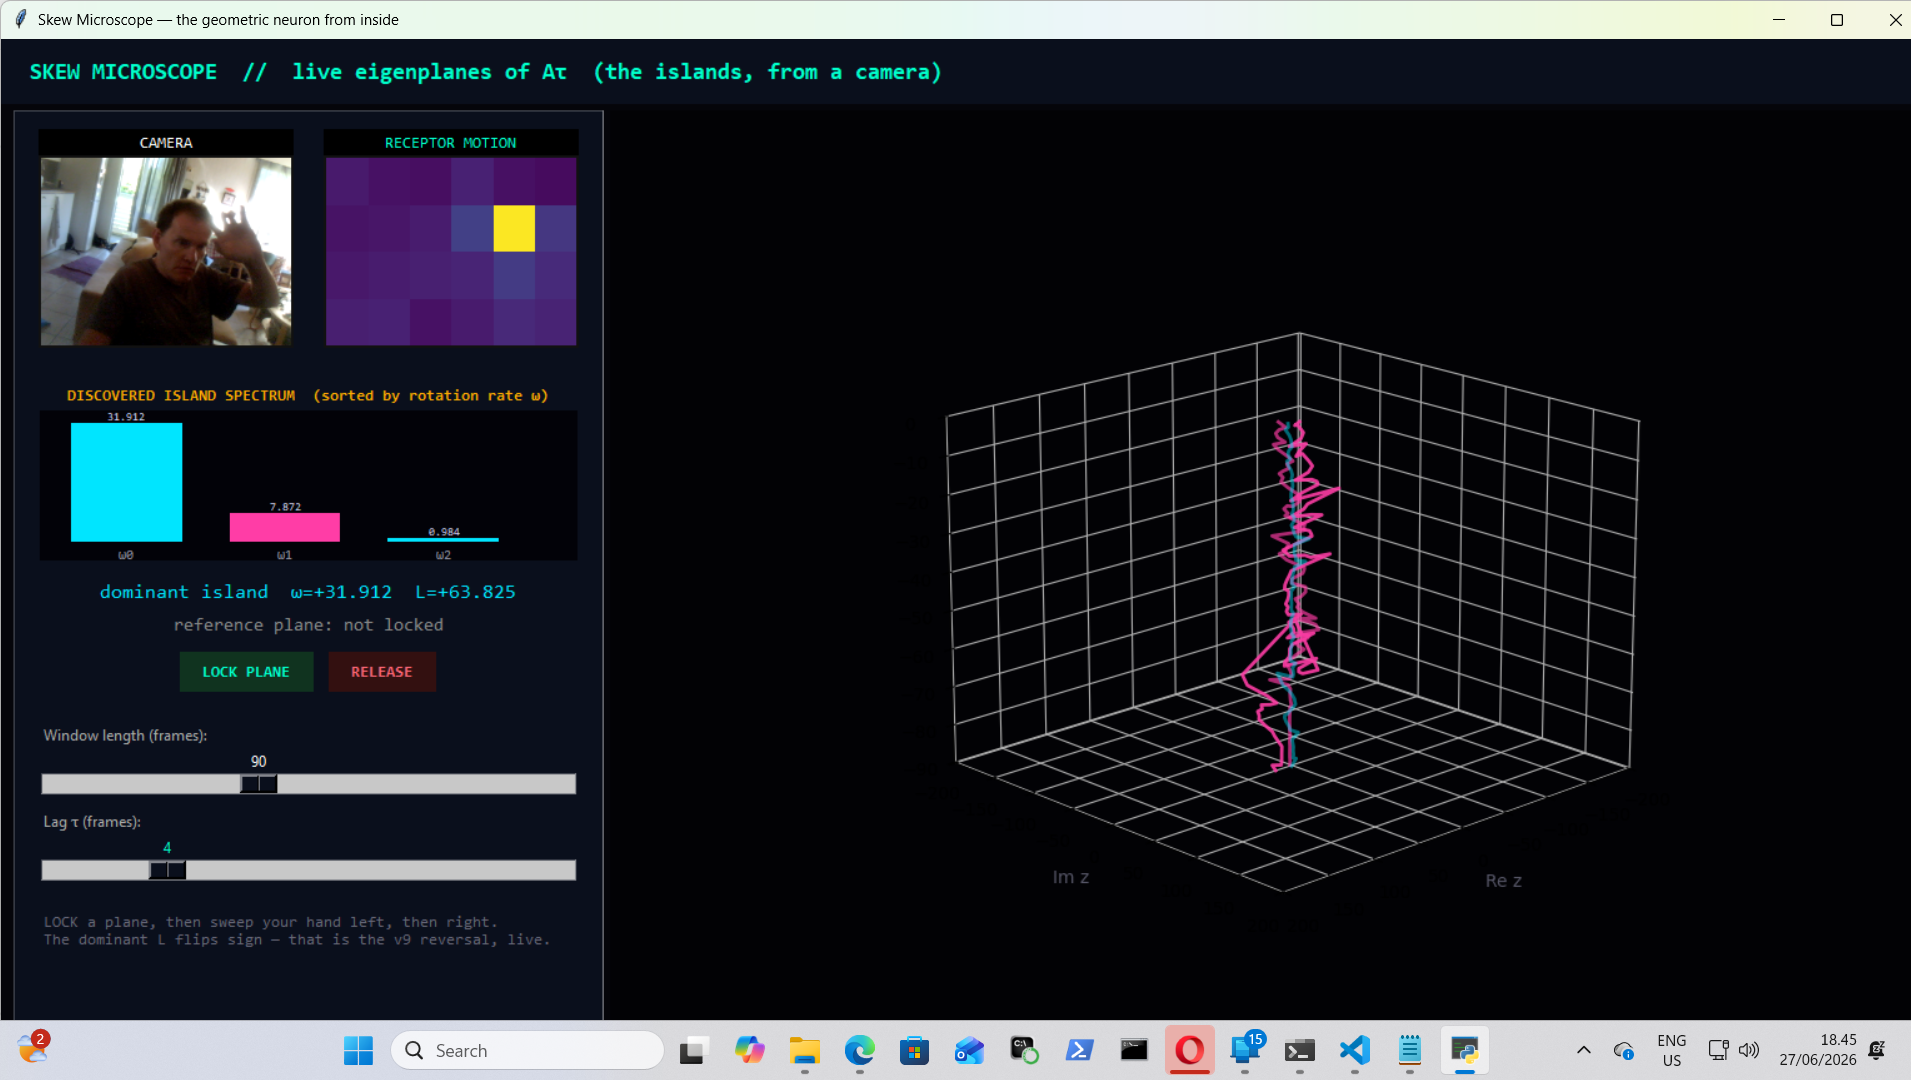
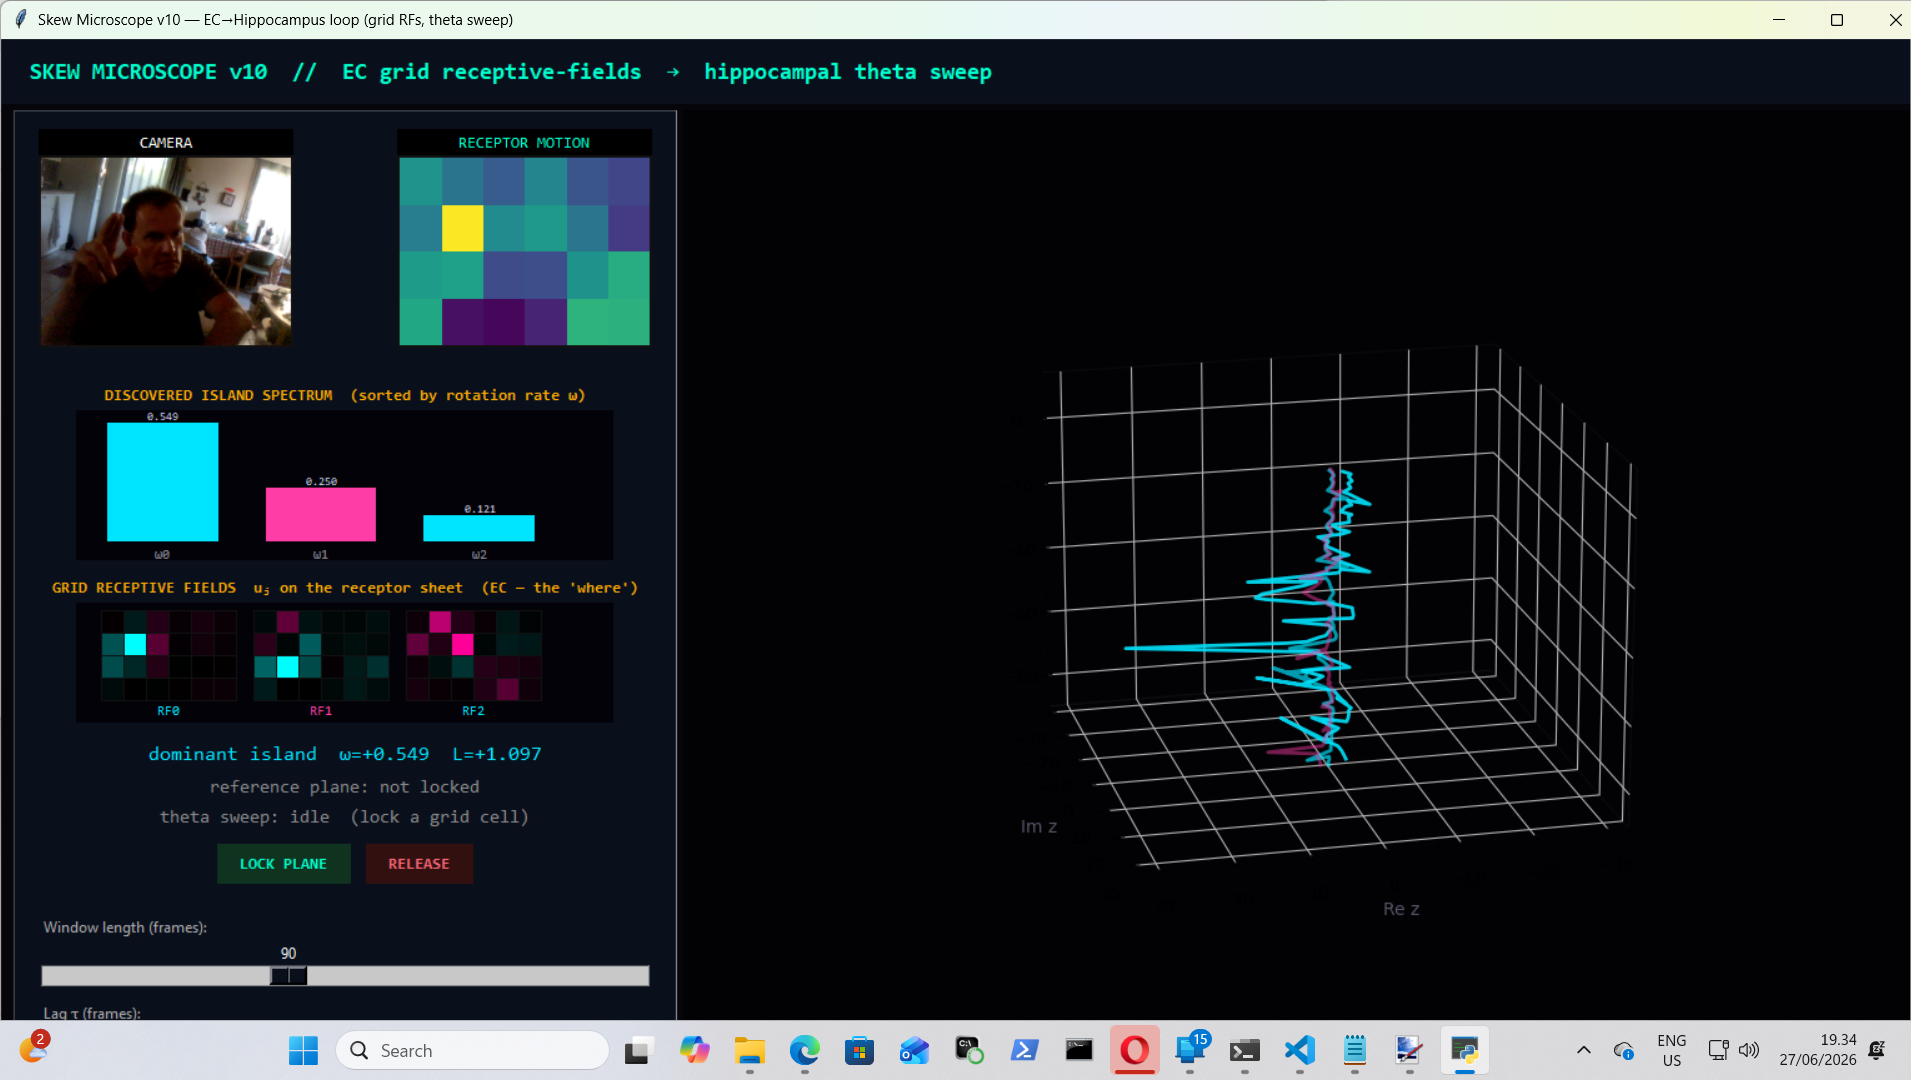
Add files via upload

diff --git a/skew_microscope.py b/skew_microscope.py
@@ -27,7 +27,7 @@ import sys
 import time
 import numpy as np
 
-from skew_core import skew_islands, project_chirality
+from skew_core import skew_islands, project_chirality, island_velocity, ThetaSweep
 
 
 # ----------------------------------------------------------------------
@@ -77,16 +77,18 @@ def run_gui():
     class SkewMicroscope:
         def __init__(self, root):
             self.root = root
-            root.title("Skew Microscope — the geometric neuron from inside")
+            root.title("Skew Microscope v10 — EC\u2192Hippocampus loop (grid RFs, theta sweep)")
             root.geometry("1600x950"); root.configure(bg="#05050a")
 
             self.fs = 30.0
             self.W = 90                                  # window length (frames)
             self.buf = np.zeros((NCH, self.W))           # the multichannel stream
             self.prev_gray = None
-            self.lock_u = None; self.lock_v = None       # held reference plane
+            self.lock_u = None; self.lock_v = None       # held reference plane (grid RF)
             self.lock_L0 = None                          # sign at lock time
             self.flip_flash = 0
+            self.sweep = ThetaSweep(theta_period=15, horizon=14)   # the hippocampal loop
+            self.motion_level = 0.0
 
             self.cap = cv2.VideoCapture(0)
             self.cap.set(cv2.CAP_PROP_FRAME_WIDTH, 320)
@@ -100,7 +102,7 @@ def run_gui():
         # ---------------- UI ----------------
         def _build_ui(self):
             hdr = tk.Frame(self.root, bg="#0a0f1c", height=56); hdr.pack(fill="x")
-            tk.Label(hdr, text="SKEW MICROSCOPE  //  live eigenplanes of A\u03c4  (the islands, from a camera)",
+            tk.Label(hdr, text="SKEW MICROSCOPE v10  //  EC grid receptive-fields  \u2192  hippocampal theta sweep",
                      font=("Consolas", 14, "bold"), fg="#00ffcc", bg="#0a0f1c").pack(side="left", padx=20, pady=12)
 
             body = tk.Frame(self.root, bg="#05050a"); body.pack(fill="both", expand=True, padx=5, pady=5)
@@ -119,10 +121,17 @@ def run_gui():
             self.spec = tk.Canvas(left, width=430, height=120, bg="#020208", highlightthickness=0)
             self.spec.pack(padx=20)
 
+            tk.Label(left, text="GRID RECEPTIVE FIELDS  u\u2c7c on the receptor sheet  (EC \u2014 the 'where')",
+                     fg="#ffaa00", bg="#0a0f1c", font=("Consolas", 9, "bold")).pack(pady=(12, 2))
+            self.rf = tk.Canvas(left, width=430, height=96, bg="#020208", highlightthickness=0)
+            self.rf.pack(padx=20)
+
             self.lbl_chir = tk.Label(left, text="dominant island  \u03c9=--  L=--",
                                      fg="#00ffcc", bg="#0a0f1c", font=("Consolas", 12)); self.lbl_chir.pack(pady=(12, 2))
             self.lbl_flip = tk.Label(left, text="reference plane: not locked",
                                      fg="#888", bg="#0a0f1c", font=("Consolas", 11)); self.lbl_flip.pack()
+            self.lbl_sweep = tk.Label(left, text="theta sweep: idle",
+                                      fg="#888", bg="#0a0f1c", font=("Consolas", 11)); self.lbl_sweep.pack()
 
             bf = tk.Frame(left, bg="#0a0f1c"); bf.pack(pady=10)
             tk.Button(bf, text="LOCK PLANE", command=self.lock_plane, bg="#10331f", fg="#00ffcc",
@@ -139,7 +148,12 @@ def run_gui():
             self.tau_var = tk.IntVar(value=4)
             tk.Scale(cf, from_=1, to=15, resolution=1, variable=self.tau_var, orient="horizontal",
                      bg="#0a0f1c", fg="#00ffcc", highlightthickness=0).pack(fill="x")
-            tk.Label(left, text="LOCK a plane, then sweep your hand left, then right.\nThe dominant L flips sign \u2014 that is the v9 reversal, live.",
+            tk.Label(cf, text="Theta period (frames/cycle):", fg="#aaa", bg="#0a0f1c").pack(anchor="w", pady=(10, 0))
+            self.theta_var = tk.IntVar(value=15)
+            tk.Scale(cf, from_=6, to=40, resolution=1, variable=self.theta_var, orient="horizontal",
+                     bg="#0a0f1c", fg="#ffaa00", highlightthickness=0,
+                     command=lambda *_: setattr(self.sweep, "theta", self.theta_var.get())).pack(fill="x")
+            tk.Label(left, text="LOCK onto a moving object: it becomes a grid cell (RF + rate).\nThe green cone is the hippocampal theta sweep \u2014 the look-ahead.\nReverse the motion: the sweep flips. Cover the lens: it dead-reckons.",
                      fg="#667", bg="#0a0f1c", font=("Consolas", 9), justify="left").pack(pady=(8, 0), padx=20, anchor="w")
 
             self.right = tk.Frame(body, bg="#000"); self.right.pack(side="left", fill="both", expand=True)
@@ -152,7 +166,11 @@ def run_gui():
             self.island_lines = []
             for _ in range(NISL):
                 ln, = self.ax.plot([], [], [], lw=2.0, alpha=0.85); self.island_lines.append(ln)
-            self.ax.set_xlim(-2, 2); self.ax.set_ylim(-2, 2); self.ax.set_zlim(-self.W, 0)
+            # the hippocampal theta sweep: a forward look-ahead projected ABOVE the present (z>0)
+            self.sweep_line, = self.ax.plot([], [], [], lw=2.6, color="#39ff88", alpha=0.9)
+            self.sweep_head = self.ax.scatter([], [], [], color="#39ff88", s=40)
+            self.now_head = self.ax.scatter([], [], [], color="#ffffff", s=45)
+            self.ax.set_xlim(-2, 2); self.ax.set_ylim(-2, 2); self.ax.set_zlim(-self.W, 14)
             self.ax.set_xlabel("Re z", color="#556"); self.ax.set_ylabel("Im z", color="#556")
             self.canvas = FigureCanvasTkAgg(self.fig, master=self.right)
             self.canvas.get_tk_widget().pack(fill="both", expand=True)
@@ -162,17 +180,22 @@ def run_gui():
             if W != self.W:
                 nb = np.zeros((NCH, W))
                 m = min(W, self.W); nb[:, -m:] = self.buf[:, -m:]
-                self.buf = nb; self.W = W; self.ax.set_zlim(-W, 0)
+                self.buf = nb; self.W = W; self.ax.set_zlim(-W, 14)
 
         def lock_plane(self):
             isl = skew_islands(self.buf, tau=self.tau_var.get(), n_islands=1)
             if isl:
                 self.lock_u, self.lock_v = isl[0]['u'], isl[0]['v']
                 self.lock_L0 = np.sign(isl[0]['L'])
-                self.lbl_flip.config(text="reference plane: LOCKED  (sweep to test)", fg="#00ffcc")
+                # seed the hippocampal loop with this island's current phase + velocity
+                z = isl[0]['z']
+                v0 = island_velocity(z, tau=self.tau_var.get())
+                self.sweep.reset(np.angle(z[-1]), v0)
+                self.lbl_flip.config(text="grid cell LOCKED  (its RF is highlighted)", fg="#00ffcc")
 
         def release_plane(self):
             self.lock_u = self.lock_v = self.lock_L0 = None
+            self.sweep.locked = False
             self.lbl_flip.config(text="reference plane: not locked", fg="#888")
 
         # ---------------- per-frame ----------------
@@ -189,7 +212,31 @@ def run_gui():
                 for c in range(GW):
                     patch = mot[r * ph:(r + 1) * ph, c * pw:(c + 1) * pw]
                     v = float(patch.mean()); out[r * GW + c] = v; rec_img[r, c] = v
+            self.motion_level = float(mot.mean())
             return out, rec_img
+
+        def _draw_rf(self, islands):
+            """paint each top island's eigenvector u_j back onto the 6x4 grid:
+            its spatial receptive field (the EC 'where' for that grid cell)."""
+            self.rf.delete("all")
+            cell = 18; pad = 6; gap = 14
+            for k in range(min(3, len(islands))):
+                u = islands[k]['u']
+                rfmap = u.reshape(GH, GW)
+                rfmap = rfmap / (np.abs(rfmap).max() + 1e-9)
+                ox = 20 + k * (GW * cell + gap)
+                col_pos = CYAN if islands[k]['L'] >= 0 else MAGENTA
+                for r in range(GH):
+                    for c in range(GW):
+                        val = rfmap[r, c]
+                        inten = int(min(255, abs(val) * 255))
+                        hexc = f"{inten:02x}"
+                        fill = (f"#00{hexc}{hexc}" if val >= 0 else f"#{hexc}00{int(inten*0.6):02x}")
+                        self.rf.create_rectangle(ox + c * cell, pad + r * cell,
+                                                 ox + (c + 1) * cell, pad + (r + 1) * cell,
+                                                 fill=fill, outline="#111")
+                self.rf.create_text(ox + GW * cell / 2, pad + GH * cell + 8,
+                                    text=f"RF{k}", fill=col_pos, font=("Consolas", 8))
 
         def _align(self, islands):
             """stabilize display: sign/order-align this frame's planes to the last."""
@@ -247,20 +294,48 @@ def run_gui():
                     self.lbl_chir.config(text=f"dominant island  \u03c9={d['omega']:+.3f}  L={d['L']:+.3f}",
                                          fg=CYAN if d['L'] >= 0 else MAGENTA)
                 self._draw_spectrum(islands)
+                self._draw_rf(islands)
 
-                # held-plane chirality + flip detector
+                # ---------------- the hippocampal loop ----------------
+                # held grid cell -> theta-gated predict/correct -> forward sweep
                 if self.lock_u is not None:
                     L = project_chirality(self.buf, self.lock_u, self.lock_v, tau=tau)
                     s = np.sign(L)
                     if abs(L) > 1e-4 and s != self.lock_L0:
                         self.flip_flash = 8; self.lock_L0 = s
-                    spin = "spin +  (one way)" if L >= 0 else "spin \u2212  (reversed)"
+
+                    # the held island's live complex coordinate + velocity
+                    Rc = self.buf - self.buf.mean(1, keepdims=True)
+                    z_held = (Rc.T @ self.lock_u) - 1j * (Rc.T @ self.lock_v)
+                    v_obs = island_velocity(z_held, tau=tau)
+                    has_motion = self.motion_level > 8e-4
+                    phi, sweep_ph, corrected = self.sweep.update(z_held[-1], v_obs, has_motion)
+
+                    # render the forward sweep as a green cone ABOVE the present (z>0)
+                    amp = max(0.4, float(np.abs(z_held[-20:]).mean()))
+                    sx = amp * np.cos(sweep_ph); sy = amp * np.sin(sweep_ph)
+                    sz = np.arange(1, len(sweep_ph) + 1)
+                    self.sweep_line.set_data(sx, sy); self.sweep_line.set_3d_properties(sz)
+                    self.sweep_head._offsets3d = ([sx[-1]], [sy[-1]], [sz[-1]])
+                    nx, ny = amp * np.cos(phi), amp * np.sin(phi)
+                    self.now_head._offsets3d = ([nx], [ny], [0.0])
+
+                    spin = "spin +" if L >= 0 else "spin \u2212"
                     if self.flip_flash > 0:
                         self.lbl_flip.config(text=f"\u26a1 CHIRALITY FLIPPED  L={L:+.3f}", fg="#ffe14d")
                         self.flip_flash -= 1
                     else:
-                        self.lbl_flip.config(text=f"held plane L={L:+.3f}   {spin}",
+                        self.lbl_flip.config(text=f"grid cell  L={L:+.3f}  {spin}",
                                              fg=CYAN if L >= 0 else MAGENTA)
+                    gate = "CORRECT (theta trough)" if corrected else ("PREDICT" if has_motion else "DEAD-RECKON (no input)")
+                    swdir = "look-ahead +" if self.sweep.v >= 0 else "look-ahead \u2212"
+                    self.lbl_sweep.config(text=f"theta sweep: {gate}   v={self.sweep.v:+.3f}  {swdir}",
+                                          fg="#39ff88" if has_motion else "#ffaa00")
+                else:
+                    self.sweep_line.set_data([], []); self.sweep_line.set_3d_properties([])
+                    self.sweep_head._offsets3d = ([], [], [])
+                    self.now_head._offsets3d = ([], [], [])
+                    self.lbl_sweep.config(text="theta sweep: idle  (lock a grid cell)", fg="#888")
 
                 self.ax.view_init(elev=18, azim=(time.time() * 12) % 360)
                 self.canvas.draw_idle()

diff --git a/skew_core.py b/skew_core.py
@@ -89,3 +89,55 @@ def project_chirality(R, u, v, tau=4):
     if len(z) <= tau:
         return 0.0
     return float((z[tau:] * np.conj(z[:-tau])).imag.mean())
+
+
+# ----------------------------------------------------------------------
+# v10 full-loop additions: the EC->hippocampus predict/correct sweep
+# ----------------------------------------------------------------------
+def island_velocity(z, tau=4):
+    """Signed angular velocity (rad/step) of a plane coordinate z(t), from the
+    quadrature cross-time product -- the same mechanism as L = Im(z z*_lag),
+    but as a rate. This is the held island's 'speed of travel' across its RF."""
+    if len(z) <= tau:
+        return 0.0
+    cr = (z[tau:] * np.conj(z[:-tau])).mean()
+    return float(np.angle(cr)) / tau
+
+
+class ThetaSweep:
+    """cortical_loop's predict-during-cycle / correct-at-trough, applied to a
+    HELD island's own phase. Within a theta cycle the phase dead-reckons forward
+    at the last held velocity (the Moser look-ahead); at the trough it is
+    corrected toward the freshly observed phase. When sensory motion drops out
+    the velocity is HELD and the sweep keeps projecting -- dead-reckoning."""
+    def __init__(self, theta_period=15, gain=0.35, vel_smooth=0.3, horizon=12):
+        self.theta = int(theta_period)   # steps per theta cycle (septal clock)
+        self.gain = gain                 # CA1 correction strength at the trough
+        self.alpha = vel_smooth          # velocity low-pass
+        self.horizon = horizon           # steps projected ahead in the sweep
+        self.phi = 0.0                   # current integrated phase estimate
+        self.v = 0.0                     # held angular velocity
+        self.step = 0
+        self.locked = False
+
+    def reset(self, phi0, v0):
+        self.phi = float(phi0); self.v = float(v0); self.step = 0; self.locked = True
+
+    def update(self, z_obs, v_obs, has_motion):
+        """Advance one frame. z_obs: latest complex coord on the held plane.
+        v_obs: freshly measured velocity. has_motion: was there input this frame.
+        Returns (phi_estimate, sweep_phases, corrected_this_frame)."""
+        if not self.locked:
+            return 0.0, np.array([]), False
+        if has_motion:
+            self.v = (1 - self.alpha) * self.v + self.alpha * v_obs   # update velocity
+        # else: HOLD self.v  (dead-reckoning through a motion dropout)
+        self.phi += self.v                                            # path-integrate phase
+        corrected = False
+        if has_motion and (self.step % self.theta == 0):             # theta trough: correct
+            err = np.angle(np.exp(1j * (np.angle(z_obs) - self.phi)))
+            self.phi += self.gain * err
+            corrected = True
+        self.step += 1
+        sweep = self.phi + self.v * np.arange(1, self.horizon + 1)    # forward look-ahead
+        return self.phi, sweep, corrected